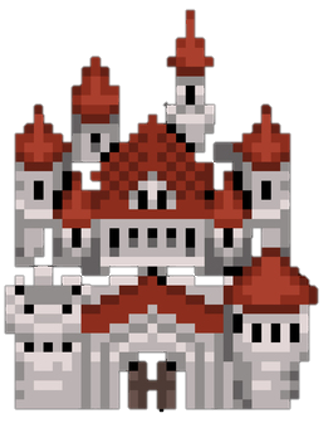
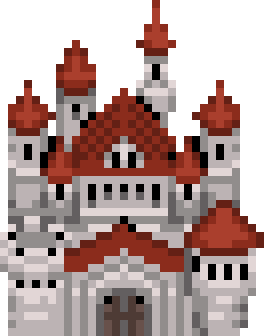
성 피격 애니메이션

diff --git a/src/main/resources/static/js/game.js b/src/main/resources/static/js/game.js
@@ -162,8 +162,17 @@ function animateWord() {
                 destSound.play(); // 실패 효과음 재생
 
                 anime({
-                    target: castle,
-                    translateX: 1000
+                    easing: 'easeInOutBounce',
+                    targets: castle,
+                    translateX: [10,-10,10,-10,10,0],
+                    translateY: [-10,10,0,-10,10,0],
+                    duration: 150,
+                    changeBegin: function(){
+                        castle.style.filter="brightness(150%)";
+                    },
+                    changeComplete: function(){
+                        castle.style.filter="brightness(100%)";
+                    },
                 })
 
                 triesLeft--; // 남은 시도 횟수 감소
@@ -271,8 +280,8 @@ function checkWord() {
             targets: 'div.arrow',
             easing: 'easeInCirc',
             translateX: parseInt(getComputedStyle(document.querySelector('.dragon')).left), //단어 div의 x좌표
-            translateY: - parseInt(getComputedStyle(document.querySelector('.dragon')).top)
-                      + (parseInt(getComputedStyle(document.querySelector('.dragon')).height)/2),
+            translateY: - parseInt(getComputedStyle(document.querySelector('.dragon')).top)  //단어 div의 y좌표
+                      + (parseInt(getComputedStyle(document.querySelector('.dragon')).height)/2), //height의 절반(중앙)
             duration: 400,
             rotate: {
                 value: 2000,

diff --git a/src/main/resources/static/css/game.css b/src/main/resources/static/css/game.css
@@ -150,13 +150,13 @@ input[type="text"] {
     width : 300px;
     height: 150px;
     top: 38%;
-    right: 38%;
+    right: 40%;
     border: none;
     margin: 0 auto;
 }
 #castle {
     position: absolute;
-    bottom: 0;
+    bottom: 10px;
     left: 0;
     height: 500px;
     width: 350px;
